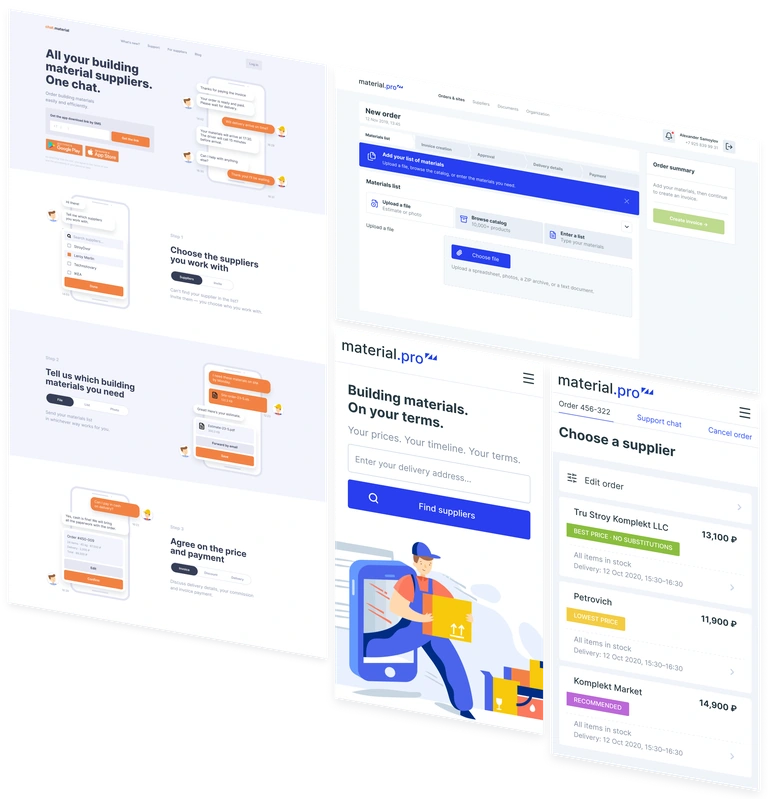
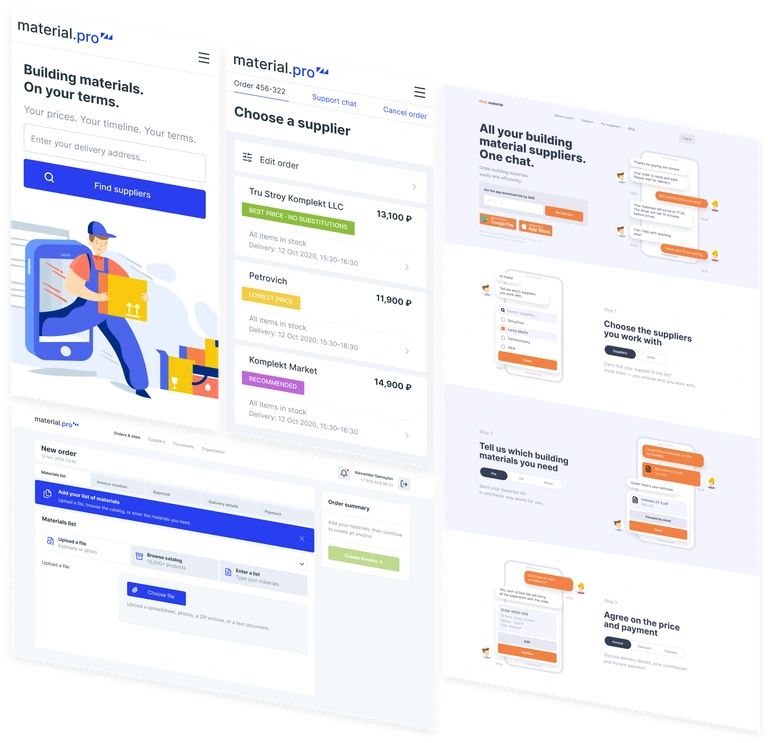
Replace GdeMaterial cover with selected four-screen composition
Local v3 source: 015bc099912717850644fc273ecf806862ffdf78
Preserves all 650 files outside the managed v3 files.

diff --git a/3/components/case-cards.js b/3/components/case-cards.js
@@ -16,8 +16,8 @@ const projects=[
   alt:'Isometric illustration of Raiffeisen Leasing agent portal screens'}},
  {id:'yandex',prefix:'Helping',company:'Yandex Market',tail:'sellers understand performance and build better product catalogues.',logo:'logo-yandex.svg?v=2f51118ffe47'},
  {id:'gdematerial',prefix:'Creating for',company:'GdeMaterial',tail:'a marketplace for discovery, checkout and delivery.',logo:'logo-gdematerial.svg?v=2bfcfc37a73b',cover:{
-  src:'/3/assets/case-covers/gdematerial-isometric-1200-q94.webp?v=d25c1a880641',width:1200,height:1248,
-  srcset:'/3/assets/case-covers/gdematerial-isometric-480-q94.webp?v=5d97b731f964 480w,/3/assets/case-covers/gdematerial-isometric-768-q94.webp?v=334e16392c84 768w,/3/assets/case-covers/gdematerial-isometric-1200-q94.webp?v=d25c1a880641 1200w,/3/assets/case-covers/gdematerial-isometric-1920-q94.webp?v=5a52de5be4f0 1920w',
+  src:'/3/assets/case-covers/gdematerial-isometric-1200-q94.webp?v=8093fa934c5c',width:1200,height:1160,
+  srcset:'/3/assets/case-covers/gdematerial-isometric-480-q94.webp?v=a1c4db9f37c7 480w,/3/assets/case-covers/gdematerial-isometric-768-q94.webp?v=f679607792b7 768w,/3/assets/case-covers/gdematerial-isometric-1200-q94.webp?v=8093fa934c5c 1200w,/3/assets/case-covers/gdematerial-isometric-1920-q94.webp?v=1b37ea220c31 1920w',
   alt:'Isometric illustration of GdeMaterial supplier discovery and ordering screens'}},
  {id:'medesk',prefix:'Designing for',company:'Medesk',tail:'connected clinic and patient workflows across 35 countries.',logo:'logo-medesk.svg?v=f5badc4055d4'}
 ];

diff --git a/3/index.html b/3/index.html
@@ -1,5 +1,5 @@
 <!doctype html>
-<html lang="en" data-build="5fc3bc375537">
+<html lang="en" data-build="634dc4456427">
 <head>
   <meta charset="utf-8">
   <meta name="viewport" content="width=device-width, initial-scale=1">
@@ -57,7 +57,7 @@
   <script type="module" src="/3/components/avatar.js?v=11046417f195"></script>
   <link rel="stylesheet" href="/3/components/case-cards.css?v=e57c19643fa6">
   <link rel="stylesheet" href="/3/components/card-gradient.css?v=dea82da415b4">
-  <script type="module" src="/3/components/case-cards.js?v=4ee96784e456"></script>
+  <script type="module" src="/3/components/case-cards.js?v=2a7afbfaff5a"></script>
   <link rel="stylesheet" href="/3/components/contact.css?v=e5118660c600">
   <link rel="stylesheet" href="/3/components/contact-gradient.css?v=d2204a9655d2">
   <script type="module" src="/3/components/contact.js?v=7502722c439d"></script>
